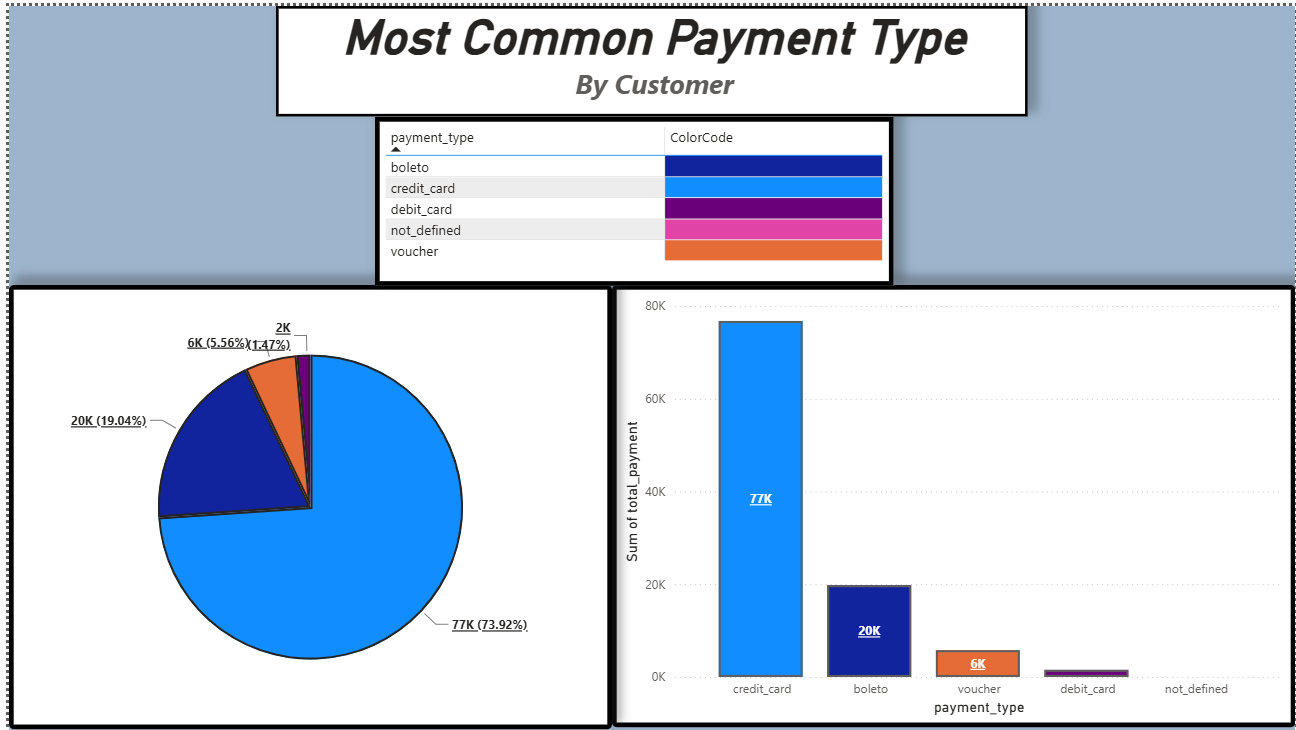
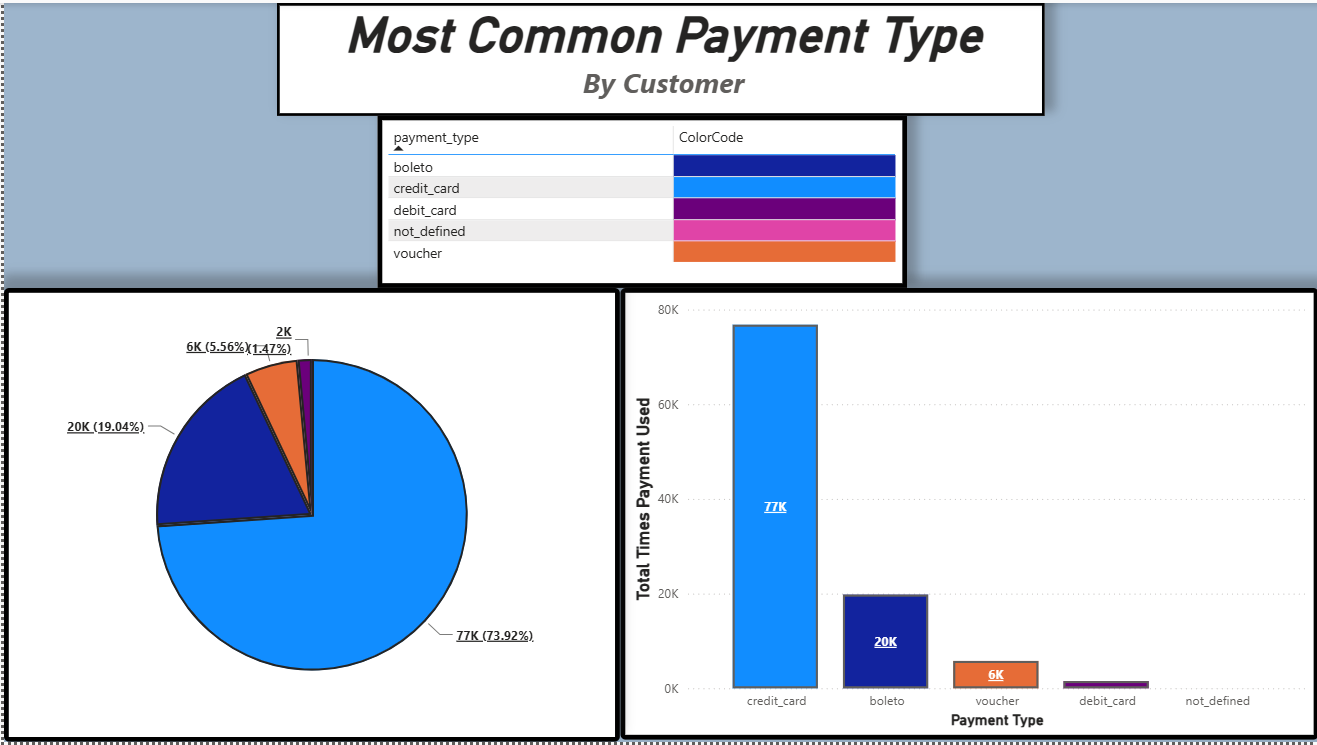
Added query to get trend of product ordered by most and least.
Added Analysis on the Commonly used payment types.

Added updated visuals on Most_Common_Payment type.

diff --git a/index.md b/index.md
@@ -3,8 +3,26 @@
 - This has information of **100k orders from 2016-2018**
 - Its features allows viewing an order from multiple dimensions:
     - Order Status
-    - Price, 
+    - Price
     - Payment 
     - Freight performance to customer location, 
     - Product Attributes
     - Reviews written by Customers
+
+## Analysis
+
+### What is the Most/Least common payment type?
+![alt text](img/Most_Common_Payment_Type.png)
+
+#### What Happened?
+1. From the dashboard we can see: 
+    1. Most commonly used payment type is **Credit Card**. 77k(73.92%) of customers
+    2. Least commonly(known) used payment type is **Debit Card**. 2k(1.92%) of customers using it
+    3. Note that I didn't used **undefined** as the least used because we don't what that it is. Is it Cash? Loaning? 
+#### Why is Credit Card the most used and Debit Card the least used?
+1. There is many reasons why one will use credit card over a debit card:
+    1. Credit cards provides better fraud and unauthorized transaction protection.
+    2. Credit cards can provide rewards, travel points, and discounts.
+    3. Helps you build credit allowing lower interest rates of products.
+
+####
